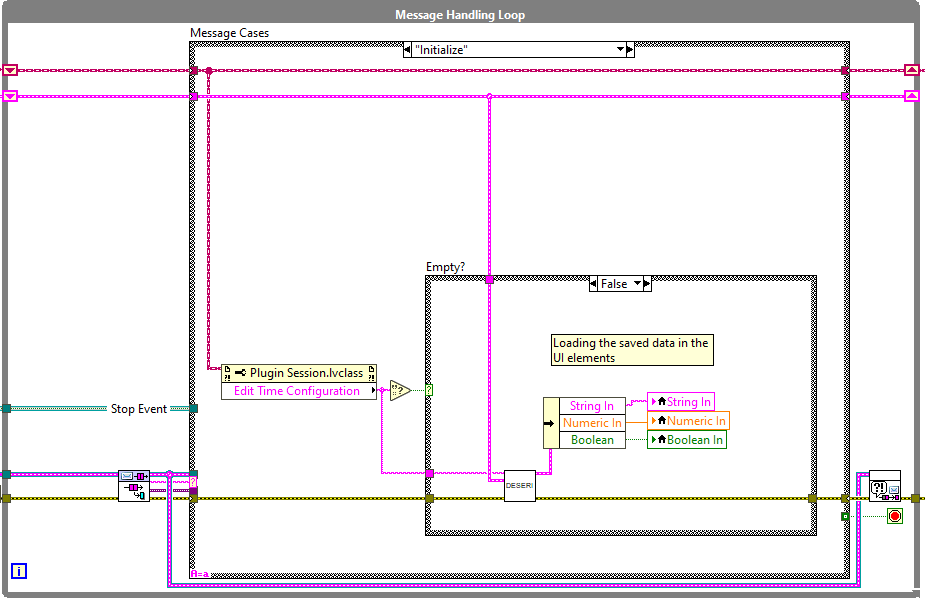
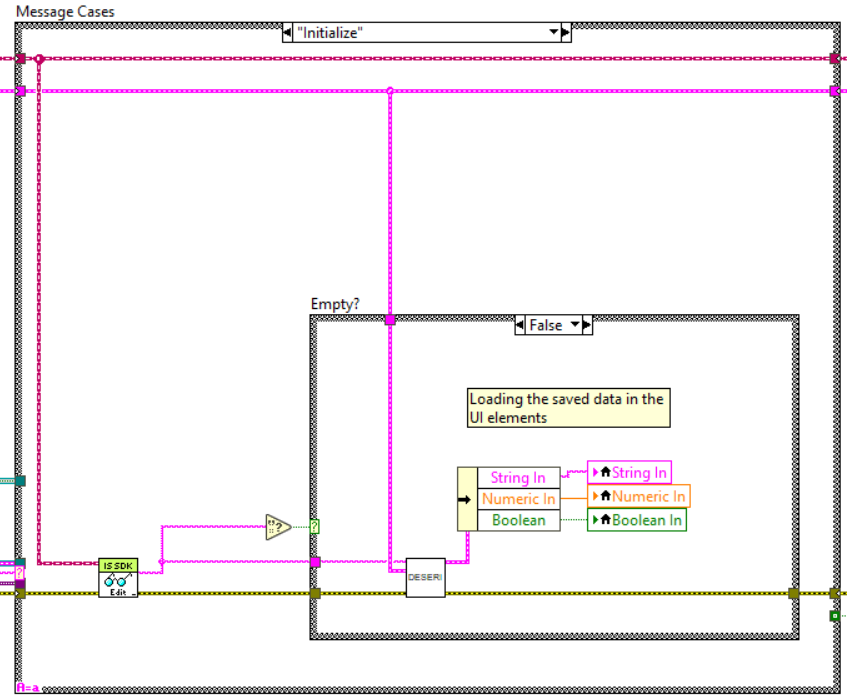
docs: replace outdated images

Changed region(s): [[0.0, 0.0, 1.0, 1.0]]

diff --git a/docs/InstrumentStudio Plug-In SDK Generator Guide.md b/docs/InstrumentStudio Plug-In SDK Generator Guide.md
@@ -125,7 +125,8 @@ Components](./images/InstrumentStudio%20Plug-In%20Guide/InstrumentStudio%20Plug-
     ![InstrumentStudio
     Plug-in](./images/InstrumentStudio%20Plug-In%20Guide/InstrumentStudio%20Plug-In%20Library.png)
 
-2. The main VI contains three controls as shown.  
+2. The main VI contains four controls: three for inputs and one for displaying
+   the running status.  
 
     ![Main VI](./images/InstrumentStudio%20Plug-In%20Guide/Main%20VI.png)
 
